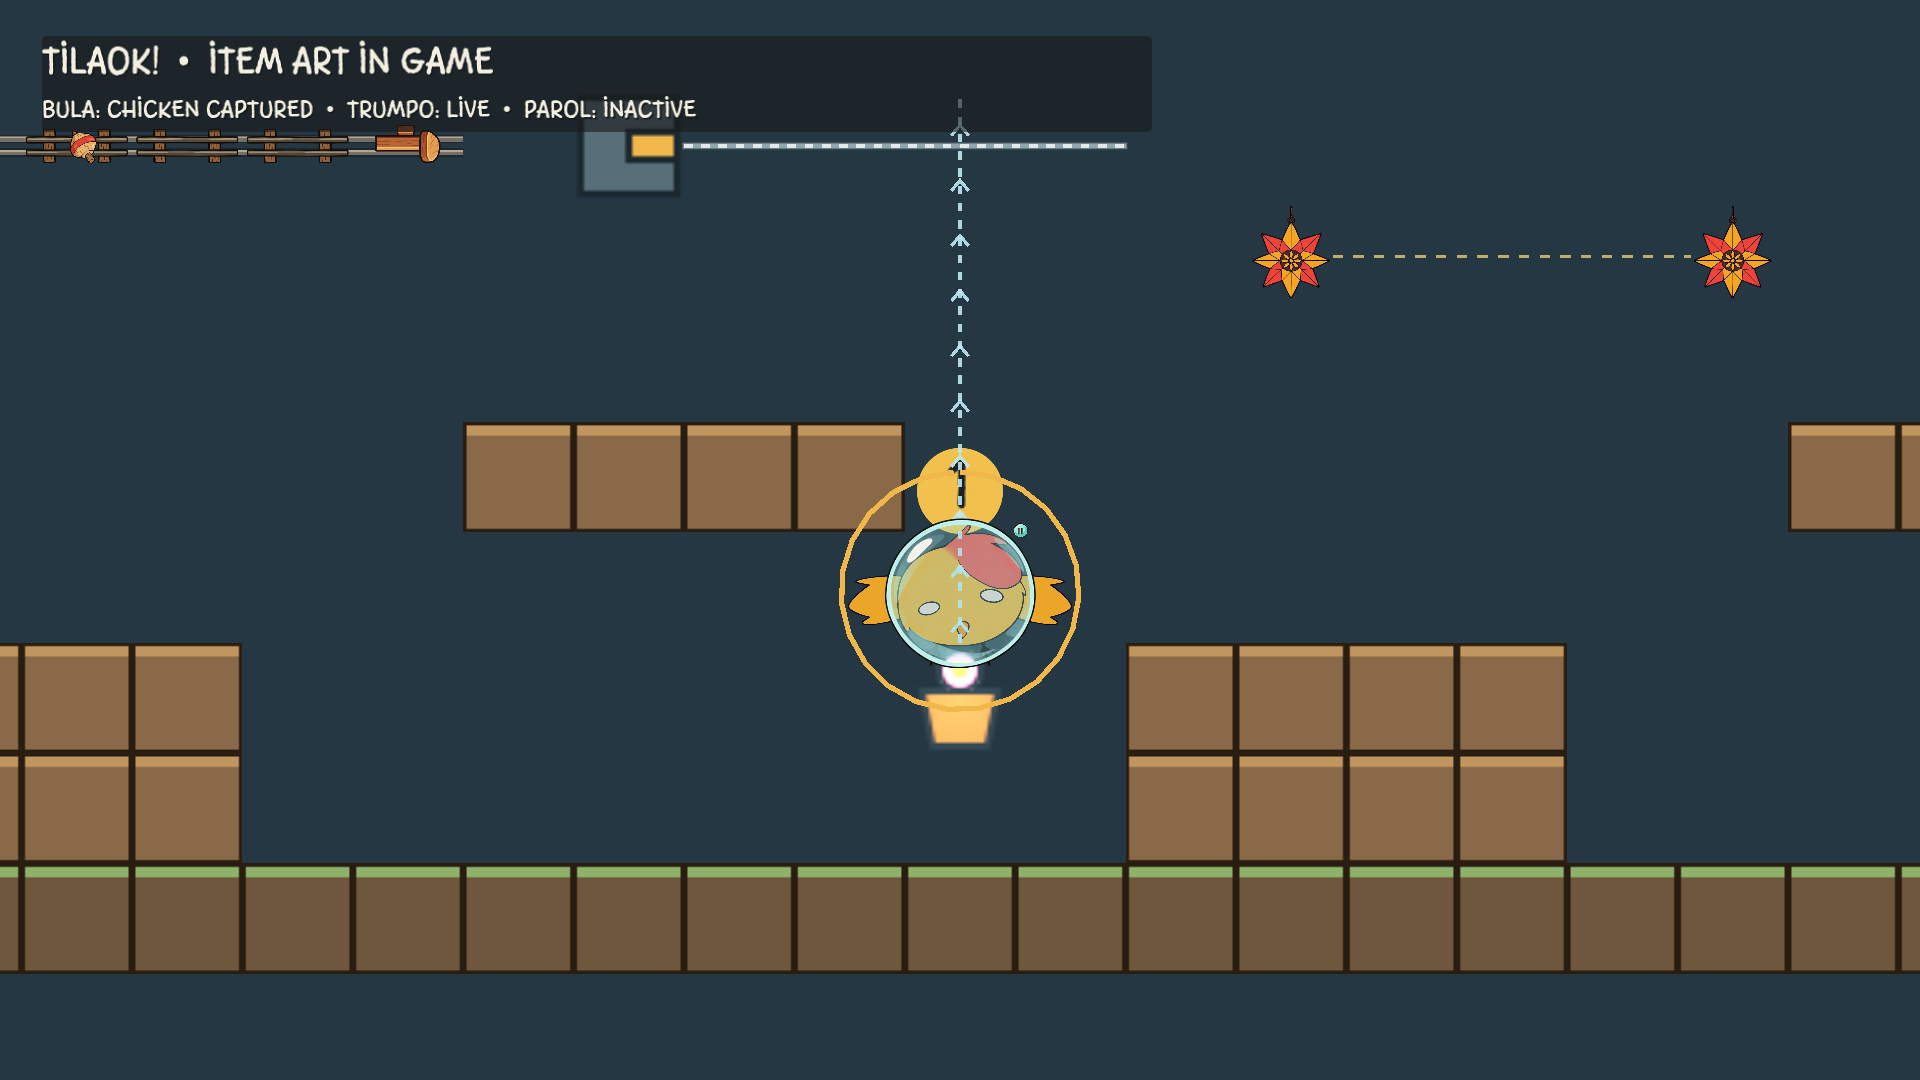
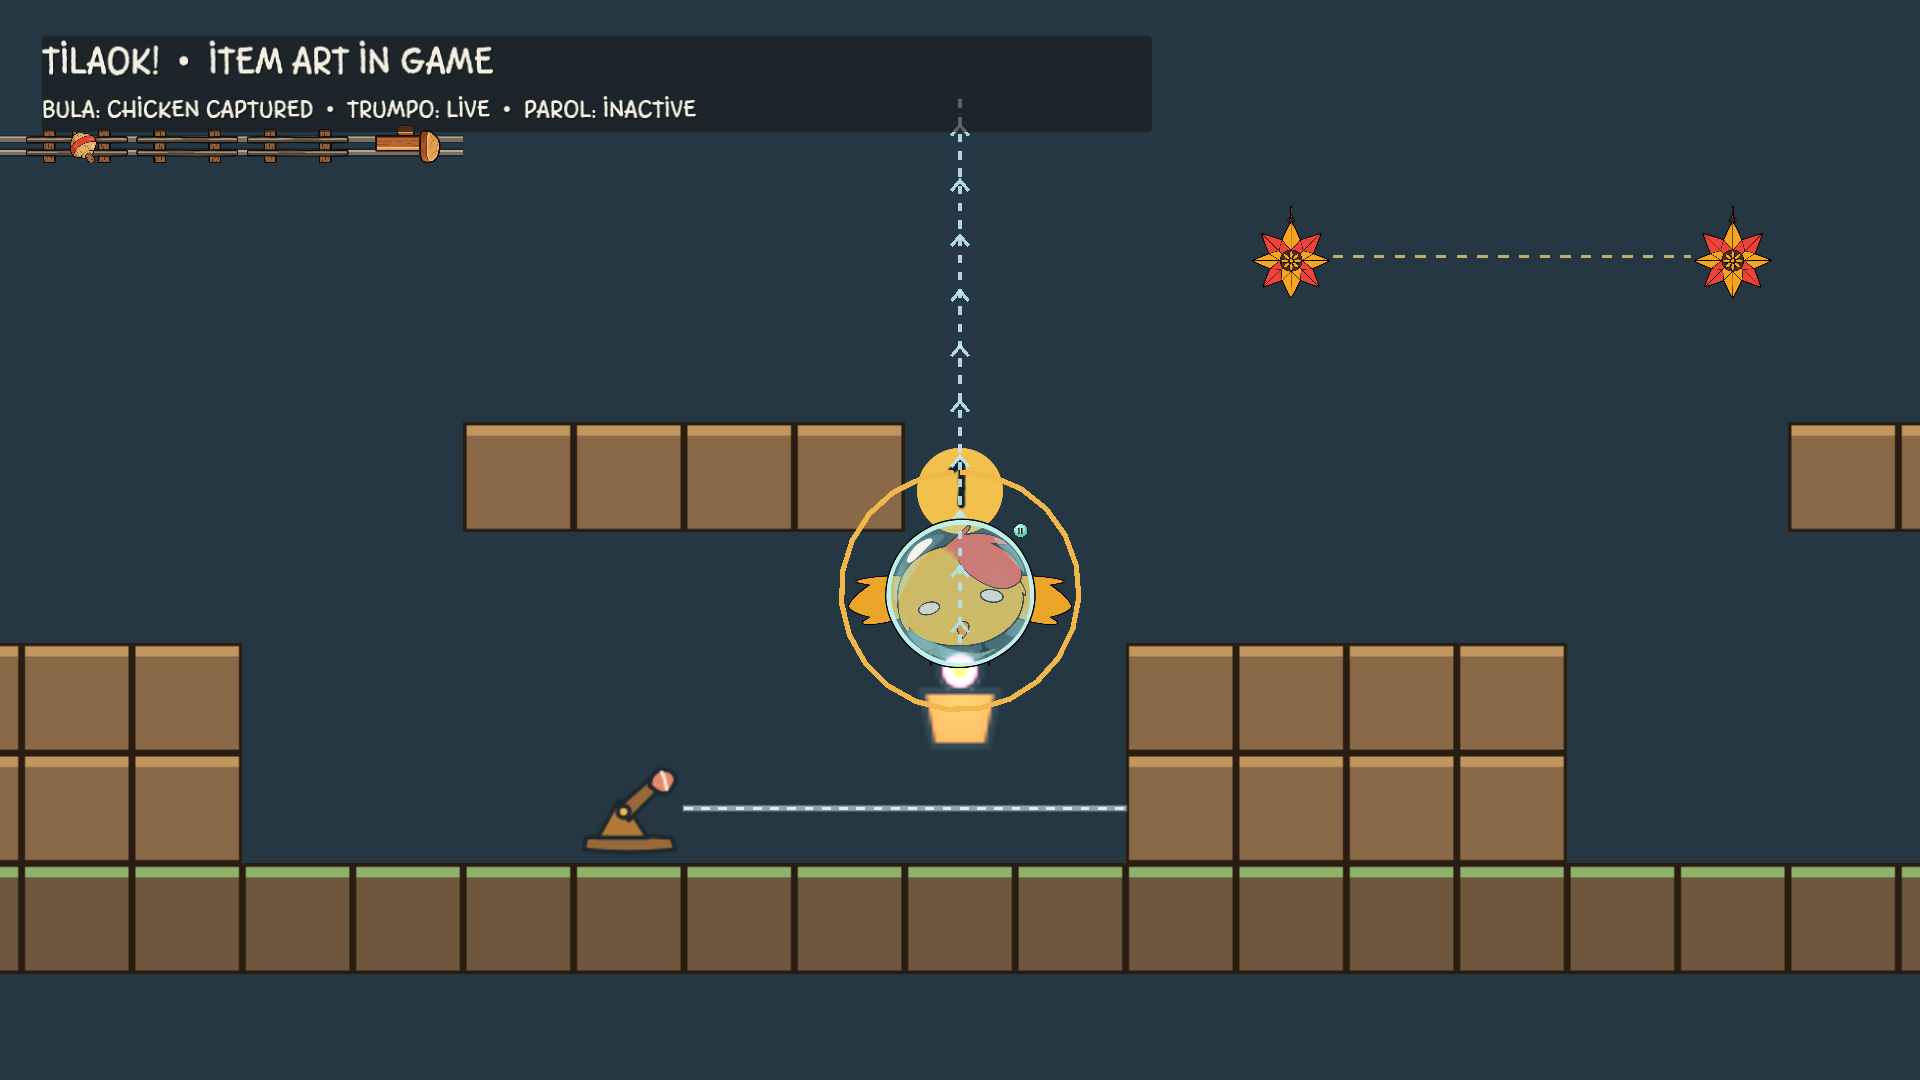
Add simple Tsinelas launcher art

Changed region(s): [[0.2812, 0.1222, 0.5938, 0.1833], [0.3125, 0.7028, 0.5938, 0.7944]]

diff --git a/docs/evidence/p24_item_art/README.md b/docs/evidence/p24_item_art/README.md
@@ -25,13 +25,18 @@ The user approved the rendered check. Two windowed Godot 4.6.3/OpenGL 3.3 captur
 
 | Capture | Result | Notes |
 |---|---|---|
-| `p24_in_game_before_placeholders.png` and `p24_in_game_active.png` | PASSED | Matched 1920×1080 scene and captured chicken; the “before” image temporarily clears art textures to show the current painter's code fallback, not a binary from the earlier revision. |
+| `p24_in_game_before_placeholders.png` and `p24_in_game_active.png` | PASSED | Matched 1920×1080 scene and captured chicken; `p24_in_game_active.png` is refreshed with the simplified Tsinelas launcher art. The “before” image temporarily clears art textures to show the current painter's code fallback, not a binary from the earlier revision. |
 | `p24_in_game_bula_capture_closeup.png` | PASSED | Real chicken held in the real bubble during a live Item Visualizer run. |
 | `p24_in_game_inactive.png`, `p24_in_game_charge.png`, `p24_in_game_active.png` | PASSED | Same captured-chicken and moving-Trumpo scene; Parol's three visual states are shown separately. |
 | `p24_pugad_egg_previews.png` | PASSED | Actual Pugad UI with Bula, Trumpo and Parol previews; egg pool was injected for this showcase. |
 | `p24_library_bula_preview.png` | PASSED | Actual Library screen and Bula entry preview using `items_lab`; this does not enable the item for release. |
 | `asset_contact_sheet.png` | PASSED | All eleven repository PNGs composed on light cards with System.Drawing; source artwork is unchanged. |
+| `p24_tsinelas_launcher_charge.png` | PASSED | Windowed 1920×1080 showcase with the launcher behavior set to its charge preview; shows the matching charge sprite in-game. |
 
 Capture console output is in `in_game_capture.log` and `selection_capture.log`; the setup and limits are summarized in their adjacent `*_manifest.md` files. The runner sources are `tilaok!/tests/capture_p24_item_art.gd` and `tilaok!/tests/capture_p24_selection_previews.gd`.
+
+## Tsinelas Launcher art follow-up — 2026-10-25
+
+The user asked for a simpler launcher sprite. Codex replaced the idle and charge placeholder textures with compact flat-color vector prototypes and moved the launcher lower in the showcase layout so it is fully visible. `p24_in_game_active.png` shows the launcher in the running Item Visualizer beside the live Trumpo, active Parol and captured Bula chicken; `p24_tsinelas_launcher_charge.png` shows its charge variant. The windowed Godot 4.6.3 capture exited 0 with `P24_IN_GAME_CAPTURE failures=0 captured_chicken=true`. Headless resource checks now include the two 64×64 launcher slots; P24 passed 198/198 and P10 passed 443/443. No gameplay or audio changes were made. Human art approval and provenance/competition review remain pending.
 
 The matched baseline is a same-scene code-fallback comparison, not a capture from the prior Git revision. The inspection is scripted, not a human play session. Creator confirmation, license/competition eligibility, cultural/art approval, physical-device review and performance remain unreviewed. P24-T08 stays unchecked for those remaining acceptance items. No gameplay timing, collision geometry, footprints, ownership, audio or effect lifecycles were intentionally changed. No commit or push was made.

diff --git a/docs/AI_USAGE.md b/docs/AI_USAGE.md
@@ -963,6 +963,10 @@ On October 25, after the user reported the water strip/body seam remained misali
 
 On October 25, after the user asked about weighted Main selection following the opening rounds, Codex traced the active `EventSchedule`, corrected stale P12 assertions and current-facing schedule notes, and reran the full P12 suite. No scheduler/gameplay behavior was changed: current code already fixes R1/R2/R3 to Karera/Lagsanay/Kangaroo, then draws 40/30/30 from R4. Verification passed 59/59; the observed 18,000-draw ratio was 0.398/0.302/0.300. This was AI-assisted programming/test/documentation work, not manual team-authored work; no human review is claimed.
 
+### Tsinelas Launcher art prototype — October 25, 2026
+
+At the user's request to add and simplify the launcher artwork, Codex authored two compact, flat-color SVG sprites directly as vector paths for the existing idle and charge visual slots. The art uses the project's established ink, wood, amber and paper palette and a deliberately limited silhouette so it reads at the 64×64 world footprint. An initial ImageGen concept was rejected because it looked too detailed and glossy; it was not imported. The idle and charge sprites replace only those two visual placeholders. Projectile art, gameplay code, geometry, timing and audio were not changed. This is a provisional AI-assisted art prototype, not team-made or human-approved final production art. Human review, creator confirmation and competition eligibility review remain pending; see [ASSETS](ASSETS.md#tsinelas-launcher-flat-vector-prototype--october-25-2026).
+
 ### Three item-family artwork and integration — October 25, 2026
 
 At the user's explicit request to implement the P24 plan, Codex used the built-in OpenAI ImageGen tool to create eleven transparent art assets for Bula-Bulaklak, Trumpo sa Riles and Parol Pulse. The cannon sprites and title-screen chicken were used as style references. To avoid copying the cannon's bamboo construction into the parol fixtures, those generations used the chicken reference alone. Selected original generation files are retained under `C:\Users\roman\.codex\generated_images\01a16e8f-a65d-7732-8c47-f8669969e8fd\`; rejected variants remain there and were not imported. Codex used Windows System.Drawing to crop transparent bounds and resize copies to the runtime source canvases. The per-file list, source dimensions and unresolved provenance/eligibility status are in [ASSETS](ASSETS.md#three-item-families--generated-art-integration--2026-10-25).

diff --git a/docs/ASSETS.md b/docs/ASSETS.md
@@ -71,6 +71,15 @@ The scheduled P23 route now uses the following AI-generated, edited derivatives.
 
 The references remain unchanged originals: `tilaok!/assets/tiles/cannon sprites/Cannon_0000.png` is the main outlined-prop reference; `tilaok!/assets/character/title_screen_default_chicken.png` guides friendly proportions and palette. The painterly Pugad nest was not used. See [P23 AI usage](AI_USAGE.md#kangaroo-presentation-illustration--october-24-2026) and [P23 presentation evidence](evidence/p23_presentation/README.md).
 
+### Tsinelas Launcher flat vector prototype — October 25, 2026
+
+| Asset | Use | Source and changes | Provenance / review |
+|---|---|---|---|
+| `hazard.slipper_launcher` — `tilaok!/assets/items/hazard.slipper_launcher/launcher.svg` | Launcher idle sprite, 64×64 transparent SVG | Original flat-color vector authored for this project with Codex assistance, using the current item palette and outline style; replaces only the placeholder launcher slot. | No third-party art copied. Provisional prototype; human art approval, creator confirmation and competition eligibility review remain pending. |
+| `hazard.slipper_launcher` — `tilaok!/assets/items/hazard.slipper_launcher/launcher_charge.svg` | Launcher charge sprite, 64×64 transparent SVG | Matching vector with a few simple charge sparks; same centered pivot and silhouette as idle. | Same provenance and pending review as above. |
+
+These are deliberately simple integration prototypes, not human-approved production art. The projectile and both audio slots remain unchanged. See [Tsinelas Launcher AI usage](AI_USAGE.md#tsinelas-launcher-art-prototype--october-25-2026).
+
 ## Cultural verification ledger
 
 Names, regional-language terms, history statements, and “Alam mo ba?” cards need native-speaker and evidence review before release. A visually Filipino motif alone does not establish a factual cultural claim.
